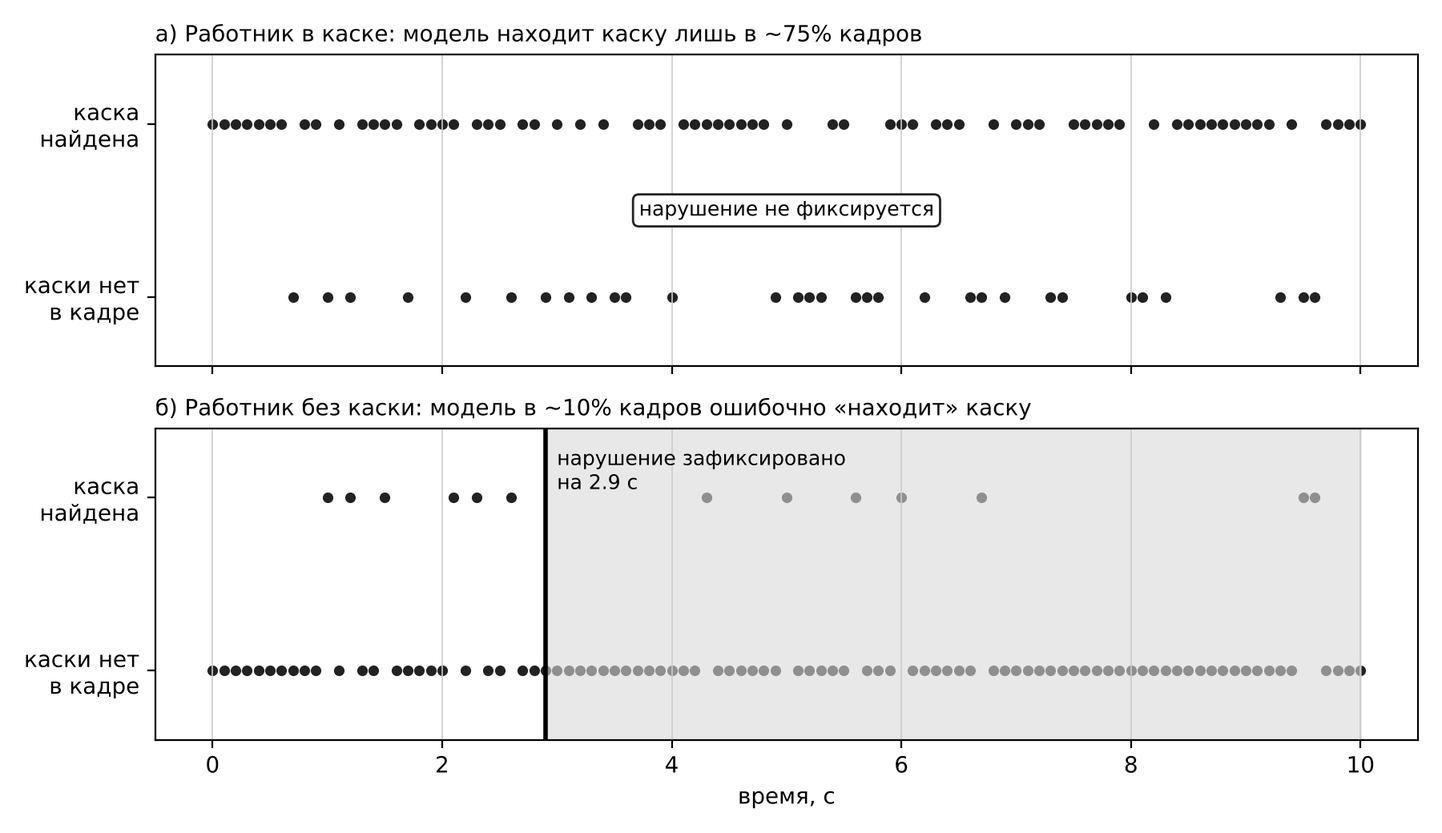
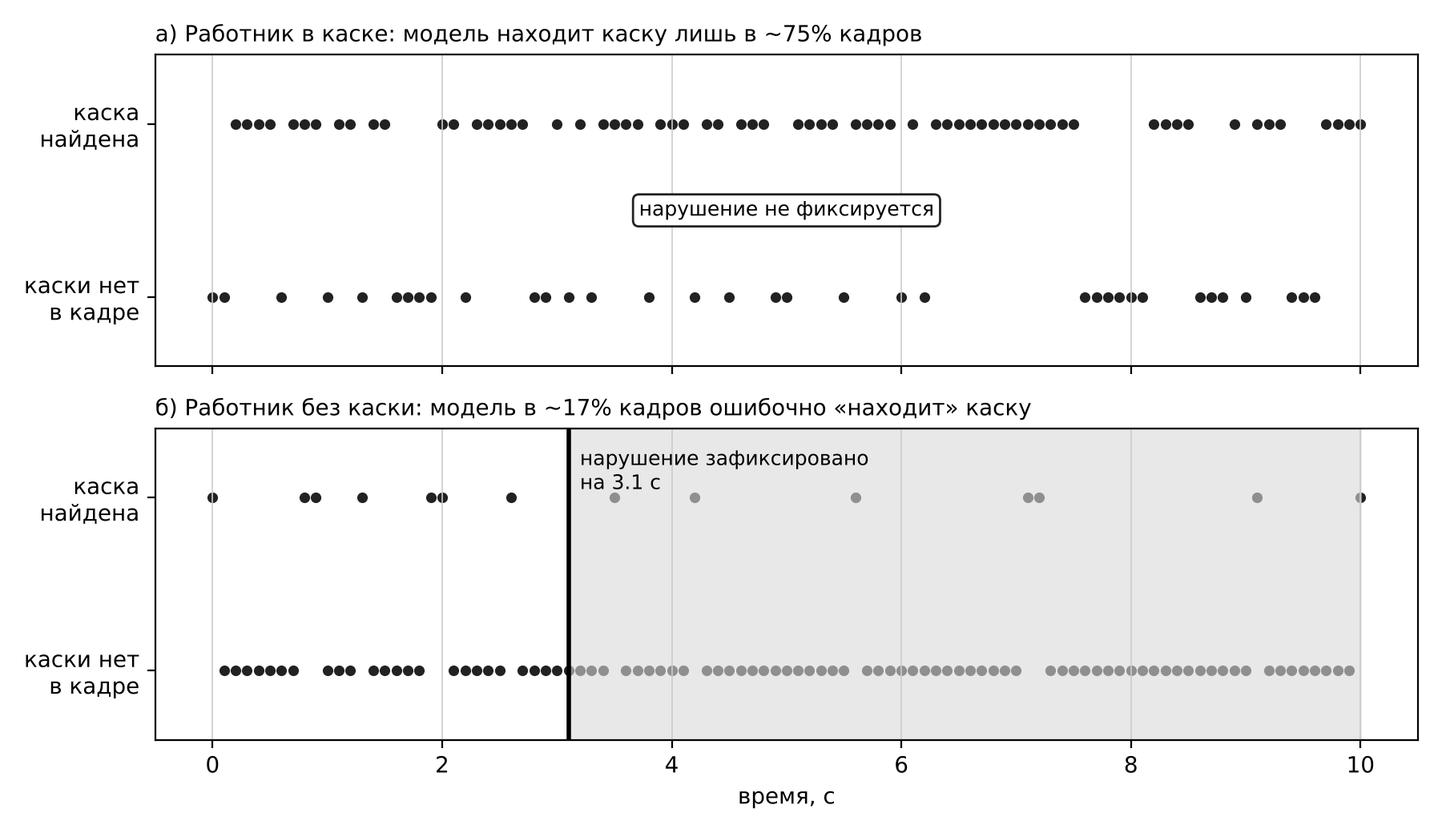
Отчёт: данные обучения и метрики, моделирование правила, скриншоты; устойчивый замер скорости
- 02_ch2: 62 эпохи, число объектов по классам, матрица ошибок, оценка по val и test
- 03_ch3: таблица моделирования правила (Монте-Карло, report/montecarlo.py) вместо аналитической
- 04_ch4: реальные скриншоты, результаты замера скорости
- tools/benchmark.py: прогрев и медиана вместо среднего
- OpenVINO: формулировки смягчены, формат выбирается по замеру на своём ПК

Claude-Session: https://claude.ai/code/session_01KVav4zQrXAwT1PJMaspigZ

diff --git a/report/montecarlo.py b/report/montecarlo.py
@@ -1,0 +1,45 @@
+"""Оценка устойчивости правила подтверждения нарушений моделированием (метод Монте-Карло).
+
+Запускается настоящий код svision/rules.py на искусственных последовательностях обнаружений:
+кадры считаются независимыми, частота 10 кадров/с. Результаты используются в разделе 3.2 отчёта.
+
+    python report/montecarlo.py
+"""
+import random
+import sys
+from pathlib import Path
+
+sys.path.insert(0, str(Path(__file__).resolve().parents[1]))
+from svision.rules import Detection, RulesParams, ViolationEngine, Zone  # noqa: E402
+
+ZONE = Zone("A", ((0, 0), (1, 0), (1, 1), (0, 1)), ("helmet", "vest"))
+PERSON = (400.0, 300.0, 500.0, 600.0)
+VEST = Detection("vest", 0.9, (410.0, 380.0, 490.0, 470.0))
+HELMET = Detection("helmet", 0.9, (420.0, 300.0, 480.0, 340.0))
+RUNS = 1000
+
+
+def first_violation(p_helmet_found: float, seconds: float, seed: int, fps: int = 10):
+    """Время первой фиксации нарушения «нет каски» или None."""
+    rng = random.Random(seed)
+    engine = ViolationEngine([ZONE], RulesParams())
+    for i in range(int(seconds * fps) + 1):
+        dets = [VEST] + ([HELMET] if rng.random() < p_helmet_found else [])
+        result = engine.update(i / fps, [(1, PERSON)], dets, 1000, 1000)
+        if any(e.kind == "no_helmet" for e in result.new):
+            return i / fps
+    return None
+
+
+if __name__ == "__main__":
+    print("Работник в каске: ложные фиксации за 60 с")
+    for p_miss in (0.25, 0.31):
+        bad = sum(first_violation(1 - p_miss, 60, s) is not None for s in range(RUNS))
+        print(f"  пропуск каски {p_miss:.2f}: {bad} из {RUNS}")
+    print("Работник без каски (ложное обнаружение каски 0,17): доля зафиксированных нарушений к моменту T")
+    times = [first_violation(0.17, 12, s) for s in range(RUNS)]
+    for limit in (4, 6, 8, 12):
+        ok = sum(t is not None and t <= limit for t in times)
+        print(f"  T = {limit:>2} с: {ok / RUNS:.3f}")
+    found = sorted(t for t in times if t is not None)
+    print("  медиана времени фиксации, с:", found[len(found) // 2])

diff --git a/report/make_figures.py b/report/make_figures.py
@@ -148,8 +148,8 @@ def simulate(present_chance: float, seed: int, seconds: float = 10.0):
 
 def fig_window():
     fig, axes = plt.subplots(2, 1, figsize=(9, 5.2), sharex=True)
-    cases = [("а) Работник в каске: модель находит каску лишь в ~75% кадров", 0.75, 3),
-             ("б) Работник без каски: модель в ~10% кадров ошибочно «находит» каску", 0.10, 11)]
+    cases = [("а) Работник в каске: модель находит каску лишь в ~75% кадров", 0.75, 0),
+             ("б) Работник без каски: модель в ~17% кадров ошибочно «находит» каску", 0.17, 1)]
     for ax, (title, chance, seed) in zip(axes, cases):
         ts, seen, confirmed = simulate(chance, seed)
         ax.scatter(ts, seen, s=14, color=DARK)
@@ -169,7 +169,7 @@ def fig_window():
     fig.tight_layout()
     fig.savefig(OUT / "fig_window.png", dpi=200)
     plt.close(fig)
-    return simulate(0.75, 3)[2], simulate(0.10, 11)[2]
+    return simulate(0.75, 0)[2], simulate(0.17, 1)[2]
 
 
 def fig_architecture():
@@ -198,7 +198,7 @@ if __name__ == "__main__":
     fig_timeline()
     fig_algorithm()
     fig_regions()
-    print("моделирование: подтверждение у работника в каске =", simulate(0.75, 3)[2], "| у работника без каски =", simulate(0.10, 11)[2])
+    print("моделирование: подтверждение у работника в каске =", simulate(0.75, 0)[2], "| у работника без каски =", simulate(0.17, 1)[2])
     fig_window()
     fig_architecture()
     print("готово:", sorted(p.name for p in OUT.glob("*.png")))

diff --git a/tools/benchmark.py b/tools/benchmark.py
@@ -40,7 +40,7 @@ def main() -> None:
     parser = argparse.ArgumentParser()
     parser.add_argument("models", nargs="+", help="пути к весам: .pt или папка *_openvino_model")
     parser.add_argument("--video")
-    parser.add_argument("--frames", type=int, default=60)
+    parser.add_argument("--frames", type=int, default=100)
     parser.add_argument("--config", default=str(PROJECT_ROOT / "config" / "default.json"))
     args = parser.parse_args()
 
@@ -50,13 +50,17 @@ def main() -> None:
     for model_path in args.models:
         m = cfg.model
         detector = YoloDetector(Path(model_path), m.imgsz, m.conf, m.device, m.class_map, set())
-        for frame in frames[:3]:  # прогрев
-            detector.detect(frame)
-        start = time.perf_counter()
+        for i in range(max(10, len(frames) // 6)):  # прогрев: загрузка и первая компиляция модели не должны попасть в замер
+            detector.detect(frames[i % len(frames)])
+        times = []
         for frame in frames:
+            start = time.perf_counter()
             detector.detect(frame)
-        per_frame = (time.perf_counter() - start) / len(frames)
-        print(f"{Path(model_path).name:<40}{per_frame * 1000:>10.0f}{1 / per_frame:>9.1f}")
+            times.append(time.perf_counter() - start)
+        times.sort()
+        median = times[len(times) // 2]  # медиана устойчива к единичным задержкам
+        mean = sum(times) / len(times)
+        print(f"{Path(model_path).name:<40}{median * 1000:>10.0f}{1 / median:>9.1f}   (медиана; среднее {mean * 1000:.0f} мс)")
 
 
 if __name__ == "__main__":

diff --git a/tools/export_openvino.py b/tools/export_openvino.py
@@ -1,4 +1,4 @@
-"""Конвертирует веса .pt в формат OpenVINO: на процессорах Intel работает в 2-3 раза быстрее.
+"""Конвертирует веса .pt в формат OpenVINO. На части процессоров Intel он быстрее, на других нет: сравните tools/benchmark.py.
 
     python tools/export_openvino.py                 # models/ppe.pt -> models/ppe_openvino_model/
     python tools/export_openvino.py models/ppe.pt

diff --git a/report/content/03_ch3.md b/report/content/03_ch3.md
@@ -45,15 +45,18 @@
 
 В окончательном алгоритме для каждого человека и каждого вида СИЗ хранятся результаты проверки за последние кадры. Нарушение фиксируется, если за окно длиной confirm_seconds (3 с), покрытое наблюдениями не менее чем на 90 %, доля кадров без СИЗ не менее violation_ratio (0,8). Нарушение считается устранённым, если за окно clear_seconds (2 с) доля кадров с СИЗ не менее resolve_ratio (0,5). Пока доля кадров без СИЗ в окне составляет не менее 0,5, но порог ещё не достигнут, человек отображается как «проверка СИЗ» (жёлтая рамка), при подтверждённом нарушении — красной рамкой с подписью.
 
-Устойчивость правила можно оценить при допущении независимости кадров. Пусть окно содержит n кадров, нарушение требует не менее 0,8·n кадров без СИЗ. Для добросовестного работника вероятность пропуска каски в кадре равна 0,25. Для нарушителя вероятность ложного обнаружения каски примем равной 0,10. Вероятности ложной и верной фиксации по биномиальному распределению приведены в таблице @tab:prob.
+Устойчивость правила проверена моделированием методом Монте-Карло (скрипт report/montecarlo.py входит в проект). Настоящий код модуля rules.py запускался на искусственных последовательностях обнаружений с частотой 10 кадров в секунду; кадры считались независимыми, на каждое условие выполнено 1000 прогонов. Для работника в каске вероятность пропуска каски в кадре принималась равной 0,25 (по полноте из раздела 2.4) и 0,31 (пессимистичная оценка по матрице ошибок); для работника без каски вероятность ошибочного обнаружения каски принималась равной 0,17 (доля голов без каски, определённых моделью как «каска», по рисунку @fig:confusion). Результаты приведены в таблице @tab:prob.
 
-{table prob | Вероятность решения за одно окно наблюдения (оценка при независимости кадров) | w=3.2,3.0,5.4,5.2}
-| Частота обработки, кадр/с | Кадров в окне | Ложная фиксация у работника в каске | Фиксация у работника без каски |
-| 5 | 15 | 1,2·10⁻⁵ | 0,944 |
-| 10 | 30 | 4,1·10⁻¹⁰ | 0,974 |
-| 15 | 45 | 1,5·10⁻¹⁴ | 0,988 |
+{table prob | Результаты моделирования правила подтверждения нарушений (1000 прогонов на условие) | w=10.4,6.4}
+| Условие | Результат |
+| Работник в каске, пропуск каски 0,25; наблюдение 60 с | Ложных нарушений нет (0 из 1000 прогонов) |
+| Работник в каске, пропуск каски 0,31; наблюдение 60 с | Ложных нарушений нет (0 из 1000 прогонов) |
+| Работник без каски: нарушение зафиксировано за 4 с | В 86,9 % прогонов |
+| Работник без каски: нарушение зафиксировано за 6 с | В 97,8 % прогонов |
+| Работник без каски: нарушение зафиксировано за 8 с | В 99,6 % прогонов |
+| Работник без каски: нарушение зафиксировано за 12 с | В 99,9 % прогонов |
 
-Реальные кадры зависимы (соседние кадры похожи), поэтому абсолютные значения носят оценочный характер, но тенденция сохраняется: чем выше частота обработки, тем надёжнее решение. Наглядно работу правила иллюстрирует рисунок @fig:window, построенный запуском кода программы на искусственной последовательности обнаружений: у работника в каске модель «не видит» каску в четверти кадров, но нарушение не фиксируется, а у работника без каски, которому модель в 10 % кадров ошибочно «находит» каску, нарушение подтверждается на третьей секунде.
+Медианное время фиксации нарушения составило 2,7 с. Таким образом, правило практически не создаёт ложных нарушений у работников в касках, а за несколько секунд подтверждает настоящее нарушение, даже когда модель в части кадров ошибочно «видит» каску. У расчёта есть ограничение: реальные соседние кадры зависимы (если каска закрыта предметом, она может отсутствовать в кадрах подряд), поэтому на настоящем видео ложные срабатывания возможны чаще; проверка на видеозаписях приведена в разделе 4.4. Работу правила иллюстрирует рисунок @fig:window, построенный запуском кода программы на искусственной последовательности: у работника в каске модель «не видит» каску в четверти кадров, но нарушение не фиксируется, а у работника без каски, которому модель в 17 % кадров ошибочно «находит» каску, нарушение подтверждается на третьей секунде.
 
 {figure window | Работа правила подтверждения на моделируемой последовательности обнаружений | fig_window.png | 15.5}
 
@@ -73,14 +76,14 @@
 | PyCharm Community 2021.2.2 | Среда разработки | Бесплатная среда с отладчиком, тестами и контролем версий |
 | Ultralytics (YOLO11) | Обнаружение объектов, обучение | Готовые предобученные веса, простое дообучение и экспорт моделей [@yolo11] |
 | OpenCV | Чтение видео, работа с кадрами | Стандартная библиотека обработки изображений |
-| OpenVINO | Ускорение на процессорах Intel | Ускорение вывода нейросети без видеокарты (в проведённом замере — в 2,9 раза) |
+| OpenVINO | Ускорение на процессорах Intel | Ускорение вывода нейросети на ряде процессоров без видеокарты; эффект проверяется замером |
 | PySide6 (Qt for Python) | Графический интерфейс | Готовые виджеты календаря и таблиц, фоновые потоки |
 | SQLite | Журнал нарушений | Встроенная СУБД, хранит данные в одном файле, не требует сервера |
 | python-docx | Формирование акта в Word | Создание документов .docx без установки Word |
 | pytest | Автоматические тесты | Простая запись проверок, запуск одной командой |
 | Google Colab | Обучение модели | Бесплатная видеокарта для обучения |
 
-Обработка нейросетью — самая затратная часть программы. При замере на процессоре Intel (4 ядра) формат OpenVINO обработал кадр за 17 мс против 48 мс у исходной модели PyTorch, то есть в 2,9 раза быстрее. Поэтому программа поддерживает загрузку модели в обоих форматах, а для замера скорости на конкретном компьютере служит отдельный скрипт tools/benchmark.py.
+Обработка нейросетью — самая затратная часть программы. Программа поддерживает загрузку модели в форматах PyTorch и OpenVINO, а для замера скорости на конкретном компьютере служит скрипт tools/benchmark.py. Эффект формата зависит от процессора: на процессоре Intel Xeon (4 ядра) в среде разработки OpenVINO обработал кадр за 17 мс против 48 мс у PyTorch (в 2,9 раза быстрее); результаты на ноутбуке разработчика приведены в разделе 4.5. Поэтому выбор формата следует делать по замеру на целевом компьютере.
 
 ### 3.4 Программная реализация
 

diff --git a/report/content/02_ch2.md b/report/content/02_ch2.md
@@ -20,7 +20,7 @@
 
 Набор содержит десять классов: Hardhat (каска), Mask (маска), NO-Hardhat (нет каски), NO-Mask (нет маски), NO-Safety Vest (нет жилета), Person (человек), Safety Cone (дорожный конус), Safety Vest (жилет), machinery (строительная техника), vehicle (транспортное средство). Для разрабатываемой системы существенны классы Person, Hardhat и Safety Vest, а также классы отсутствия СИЗ NO-Hardhat и NO-Safety Vest, которые используются как дополнительное свидетельство. Остальные классы остаются в модели, но программой не применяются.
 
-По данным страницы набора, исходно он содержит 717 изображений; при выпуске версии 27 к обучающим изображениям применены аугментации (отражение, поворот, сдвиг, изменение яркости, цвета и экспозиции, размытие, вырезание участков, мозаика), поэтому в версии 2801 изображение. На практике это означает, что число независимых обучающих изображений существенно меньше 2605, что необходимо учитывать при оценке обобщающей способности модели. Распределение объектов по классам показано на рисунке @fig:classes.
+По данным страницы набора, исходно он содержит 717 изображений; при выпуске версии 27 к обучающим изображениям применены аугментации (отражение, поворот, сдвиг, изменение яркости, цвета и экспозиции, размытие, вырезание участков, мозаика), поэтому в версии 2801 изображение. На практике это означает, что число независимых обучающих изображений существенно меньше 2605, что необходимо учитывать при оценке обобщающей способности модели. Распределение объектов по классам показано на рисунке @fig:classes: в обучающей выборке размечено 37 374 объекта, из них 9691 — человек, 3362 — каска, 3156 — жилет, 2318 — «нет каски» и 3957 — «нет жилета». Диаграмма размеров рамок показывает, что большинство объектов занимает менее 10 % ширины и высоты кадра, то есть каска и жилет на кадре с камеры наблюдения относятся к небольшим объектам.
 
 {figure classes | Распределение объектов по классам и размерам рамок в обучающей выборке | train_labels.jpg | 14.5 | Вставить файл train_labels.jpg из архива ppe_result.zip (результат обучения в Colab)}
 
@@ -55,9 +55,10 @@
 - размер пакета: 16 изображений;
 - ограничение по времени: 35 минут (после остановки выбираются веса лучшей эпохи);
 - досрочная остановка при отсутствии улучшений: 15 эпох;
+- оптимизатор выбирается автоматически (auto), начальная скорость обучения 0,01;
 - фиксированное начальное значение генератора случайных чисел (seed = 0) для воспроизводимости.
 
-За отведённое время выполнено {{ЗАПОЛНИТЬ: число эпох из файла train_results.csv}} эпох, лучшие веса получены на эпохе {{ЗАПОЛНИТЬ: номер лучшей эпохи}}. Динамика функции потерь и метрик по эпохам показана на рисунке @fig:curves.
+За отведённое время выполнено 62 эпохи (35,0 минут), лучшие веса получены на эпохе 56. Динамика функции потерь и метрик по эпохам показана на рисунке @fig:curves. Обучение остановлено ограничением по времени, а не критерием досрочной остановки: к концу обучения кривые потерь и метрик ещё не вышли на плато, поэтому более длительное обучение, вероятно, повысило бы качество модели. На проверочной выборке (114 изображений) для лучшей эпохи получены precision 0,901, recall 0,708, mAP50 0,790 и mAP50–95 0,496.
 
 {figure curves | Динамика функции потерь и метрик качества в процессе обучения | train_results.png | 16.5 | Вставить файл train_results.png из архива ppe_result.zip}
 
@@ -86,6 +87,8 @@
 Классы отсутствия СИЗ распознаются заметно хуже: для NO-Hardhat полнота составила лишь 0,531, mAP50 — 0,520. Поэтому алгоритм не опирается на эти классы как на основной источник: отсутствие каски определяется по отсутствию найденной каски на человеке, а классы NO-Hardhat и NO-Safety Vest используются лишь как дополнительное свидетельство, сопоставляемое по уверенности. Низкие значения для класса Safety Cone не влияют на систему, так как этот класс в ней не используется. Время обработки одного изображения на видеокарте T4 составило 6,8 мс (инференс) плюс 4,4 мс предобработки и 3,0 мс постобработки.
 
 Матрица ошибок и кривая «точность–полнота» показаны на рисунках @fig:confusion и @fig:pr, примеры работы модели на тестовых изображениях — на рисунке @fig:preds.
+
+По матрице ошибок (рисунок @fig:confusion) 69 % касок и 77 % жилетов определяются верно. Для голов без каски в 41 % случаев модель верно указывает класс NO-Hardhat, в 17 % ошибочно относит их к классу «каска», а в 37 % не обнаруживает вовсе. Эти значения использованы в разделе 3.2 при проверке правила подтверждения нарушений: вероятность пропуска каски на работнике в каске принята равной 0,25 (по полноте) и 0,31 (по матрице ошибок), а вероятность ошибочного обнаружения каски на человеке без каски — 0,17. Результат на тестовой выборке (mAP50 0,713) ниже, чем на проверочной (0,790): проверочная выборка использовалась при выборе лучшей эпохи, поэтому её оценка оптимистична, а тестовая оценка несмещённая, но получена на небольшом числе изображений.
 
 {figure confusion | Нормированная матрица ошибок на тестовой выборке | test_confusion_matrix_normalized.png | 14 | Вставить файл test_confusion_matrix_normalized.png из архива ppe_result.zip}
 

diff --git a/report/content/05_concl.md b/report/content/05_concl.md
@@ -6,8 +6,8 @@
 
 Для обнаружения объектов выбрана модель YOLO11n, обоснованная требованием работы в реальном времени на ноутбуке без видеокарты. Модель дообучена на открытом наборе Construction Site Safety (2801 изображение, 10 классов) в облачной среде Google Colab. На тестовой выборке достигнуты значения mAP50 0,842 для каски, 0,805 для жилета и 0,805 для человека. Полнота обнаружения касок и жилетов (около 0,75) показала, что вывод об отсутствии СИЗ нельзя делать по одному кадру.
 
-Разработан алгоритм, в котором СИЗ привязывается к человеку по взаимному расположению рамок, а нарушение подтверждается по доле кадров без СИЗ в окне в 3 секунды. Расчёт показал, что первоначальный вариант (запуск таймера по первому пропуску) признавал бы нарушителем практически любого работника в каске, а выбранное окно снижает вероятность ложной фиксации до порядка 10⁻¹⁰ при 10 кадрах в секунду. Реализована программа на Python с графическим интерфейсом: мониторинг в реальном времени, календарь с отметкой дат нарушений, три рабочие смены, фотофиксация с подписанными людьми и выгрузка акта. Логика проверена 27 автоматическими тестами. Использование формата OpenVINO ускорило обработку на процессоре Intel в 2,9 раза по сравнению с исходной моделью.
+Разработан алгоритм, в котором СИЗ привязывается к человеку по взаимному расположению рамок, а нарушение подтверждается по доле кадров без СИЗ в окне в 3 секунды. Расчёт показал, что первоначальный вариант (запуск таймера по первому пропуску) признавал бы нарушителем практически любого работника в каске, а моделирование выбранного правила на настоящем коде программы не выявило ложных нарушений у работников в касках за 60 секунд наблюдения (0 из 1000 прогонов), при этом настоящее нарушение фиксируется за 4 секунды в 87 % случаев и за 6 секунд в 98 %. Реализована программа на Python с графическим интерфейсом: мониторинг в реальном времени, календарь с отметкой дат нарушений, три рабочие смены, фотофиксация с подписанными людьми и выгрузка акта. Логика проверена 27 автоматическими тестами. Сравнение форматов модели (PyTorch и OpenVINO) показало, что эффект зависит от процессора, поэтому формат следует выбирать по замеру на целевом компьютере; на ноутбуке с процессором Intel Core i3-1215U модель в формате PyTorch обрабатывает около 26,6 кадра в секунду, что значительно выше требуемых 5.
 
-Выявлены ограничения прототипа: контролируются только каска и жилет; точность зависит от набора данных и ракурса камеры; тестирование на видео выполнено на малом числе коротких роликов; личность нарушителя система не определяет (это сознательное решение, исключающее обработку биометрических данных). Направления развития: идентификация работников по номерам на жилетах без биометрии, расширение перечня СИЗ (защитные очки и щитки, перчатки, обувь, страховочные системы) с отдельным обучением, дообучение на данных конкретного объекта и российской спецодежды, поддержка нескольких камер и уведомлений ответственным лицам, оценка на более крупной тестовой выборке.
+Выявлены ограничения прототипа: контролируются только каска и жилет; модель обучена с ограничением по времени (35 минут) и не вышла на плато качества; точность зависит от набора данных и ракурса камеры; тестирование на видео выполнено на малом числе коротких роликов; личность нарушителя система не определяет (это сознательное решение, исключающее обработку биометрических данных). Направления развития: идентификация работников по номерам на жилетах без биометрии, расширение перечня СИЗ (защитные очки и щитки, перчатки, обувь, страховочные системы) с отдельным обучением, дообучение на данных конкретного объекта и российской спецодежды, поддержка нескольких камер и уведомлений ответственным лицам, оценка на более крупной тестовой выборке.
 
 В процессе работы получены и закреплены навыки подготовки данных, дообучения и оценки моделей компьютерного зрения, проектирования и тестирования программного обеспечения, а также оформления технической документации.

diff --git a/report/content/04_ch4.md b/report/content/04_ch4.md
@@ -4,9 +4,9 @@
 
 ### 4.1 Окно мониторинга
 
-Вкладка «Мониторинг» показывает видео с разметкой в реальном времени. Рамка вокруг человека зелёная, если СИЗ в норме, жёлтая во время проверки и красная при подтверждённом нарушении; над рамкой выводится номер человека и результат проверки. Голубыми рамками отмечены найденные каски и жилеты. Справа расположена таблица текущих нарушений (время, человек, зона, нарушение, длительность), под ней — число людей в кадре, число нарушителей и текущая скорость обработки. Вверху отображаются источник видео и текущая рабочая смена. Окно во время обработки показано на рисунках @fig:mon_ok и @fig:mon_bad.
+Вкладка «Мониторинг» показывает видео с разметкой в реальном времени. Рамка вокруг человека зелёная, если СИЗ в норме, жёлтая во время проверки и красная при подтверждённом нарушении; над рамкой выводится номер человека и результат проверки. Голубыми рамками отмечены найденные каски и жилеты. Справа расположена таблица текущих нарушений (время, человек, зона, нарушение, длительность), под ней — число людей в кадре, число нарушителей и текущая скорость обработки. Вверху отображаются источник видео и текущая рабочая смена. Окно во время обработки показано на рисунках @fig:mon_ok и @fig:mon_bad; скорость обработки видео 1280 × 720 при 50 кадрах в секунду составила около 23 кадров в секунду.
 
-{figure mon_ok | Окно «Мониторинг»: СИЗ в норме | scr_monitor_ok.png | 16 | Скриншот окна программы во время работы, когда у людей в кадре каски и жилеты (зелёные рамки)}
+{figure mon_ok | Окно «Мониторинг»: у одного человека СИЗ в норме, второй проходит проверку | scr_monitor_ok.png | 16 | Скриншот окна программы во время работы, когда у людей в кадре каски и жилеты (зелёные рамки)}
 
 {figure mon_bad | Окно «Мониторинг»: зафиксировано нарушение | scr_monitor_violation.png | 16 | Скриншот окна, когда у человека нет каски или жилета (красная рамка, строка в таблице нарушений)}
 
@@ -45,12 +45,12 @@
 
 {table speed | Скорость обнаружения на ноутбуке без видеокарты | w=6.5,5,5.3}
 | Формат модели | Время на кадр, мс | Скорость, кадр/с |
-| PyTorch (ppe.pt) | {{?}} | {{?}} |
-| OpenVINO (ppe_openvino_model) | {{?}} | {{?}} |
+| PyTorch (ppe.pt) | 38 | 26,6 |
+| OpenVINO (ppe_openvino_model) | 147 {{повторить замер}} | 6,8 {{повторить замер}} |
 
 {figure bench | Результат замера скорости (tools/benchmark.py) | scr_benchmark.png | 15 | Скриншот вывода команды python tools/benchmark.py models/ppe.pt models/ppe_openvino_model в терминале}
 
-{{ЗАПОЛНИТЬ: вывод о том, достаточна ли скорость для реального времени (требование — не менее 5 кадров/с)}}
+Скорость модели PyTorch (26,6 кадра в секунду) более чем в пять раз превышает требование (не менее 5 кадров в секунду), поэтому в качестве основной оставлена модель в формате PyTorch. В работе приложения с видео 1280 × 720 при 50 кадрах в секунду зафиксирована скорость обработки около 23 кадров в секунду (окно «Мониторинг»): если обработка не успевает за частотой кадров, лишние кадры пропускаются, и события фиксируются в реальном времени. Результат для формата OpenVINO на данном процессоре оказался хуже (в отличие от процессора Intel Xeon в среде разработки), что подтверждает необходимость выбирать формат по замеру на целевом компьютере.
 
 ### 4.6 Автоматические тесты
 

diff --git a/README.md b/README.md
@@ -49,12 +49,12 @@
 3. Скачайте `ppe_result.zip`. `best.pt` положите в `models/ppe.pt`.
 4. В архиве также лежат графики и `metrics.json`: это материал для раздела отчёта о качестве.
 
-**Ускорение на Intel (рекомендуется):** процессор Intel быстрее работает с форматом OpenVINO. В моём замере на Intel-процессоре в 2.9 раза быстрее, чем PyTorch (на вашем ноутбуке цифры будут ниже, замерьте).
+**OpenVINO (необязательно, проверяйте замером).** Формат OpenVINO на части процессоров Intel заметно быстрее PyTorch, на других нет. В среде разработки (Intel Xeon, 4 ядра) он был быстрее в 2,9 раза, а на ноутбуке с Intel Core i3-1215U по первому замеру оказался медленнее, поэтому по умолчанию используется `models/ppe.pt`. Чтобы сравнить на своём компьютере (закройте программу и тяжёлые приложения):
 ```
 python tools/export_openvino.py
 python tools/benchmark.py models/ppe.pt models/ppe_openvino_model
 ```
-Затем в `config/default.json` поставьте `"path": "models/ppe_openvino_model"`.
+Если OpenVINO быстрее, в `config/default.json` поставьте `"path": "models/ppe_openvino_model"`.
 
 ## Запуск
 
